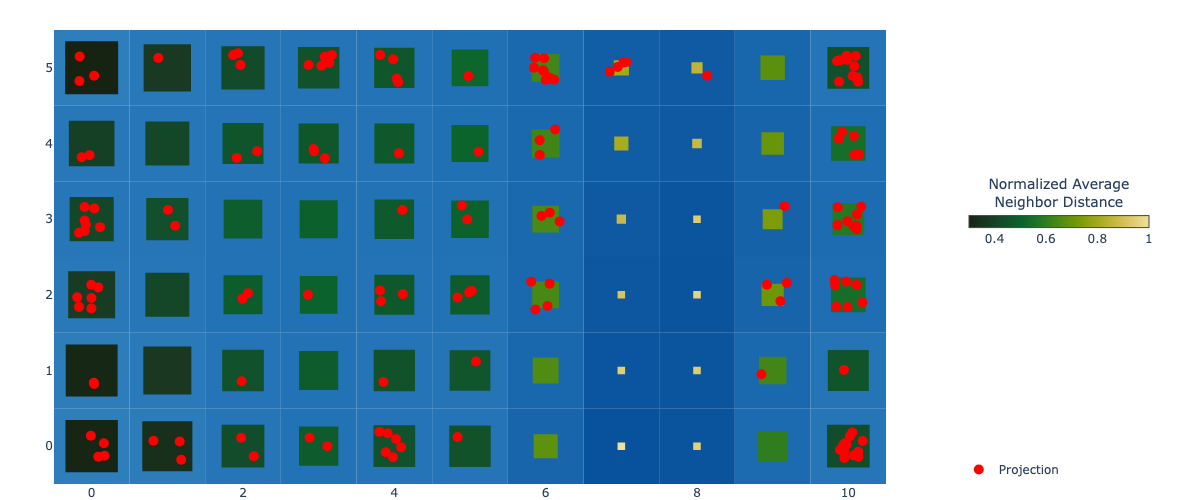
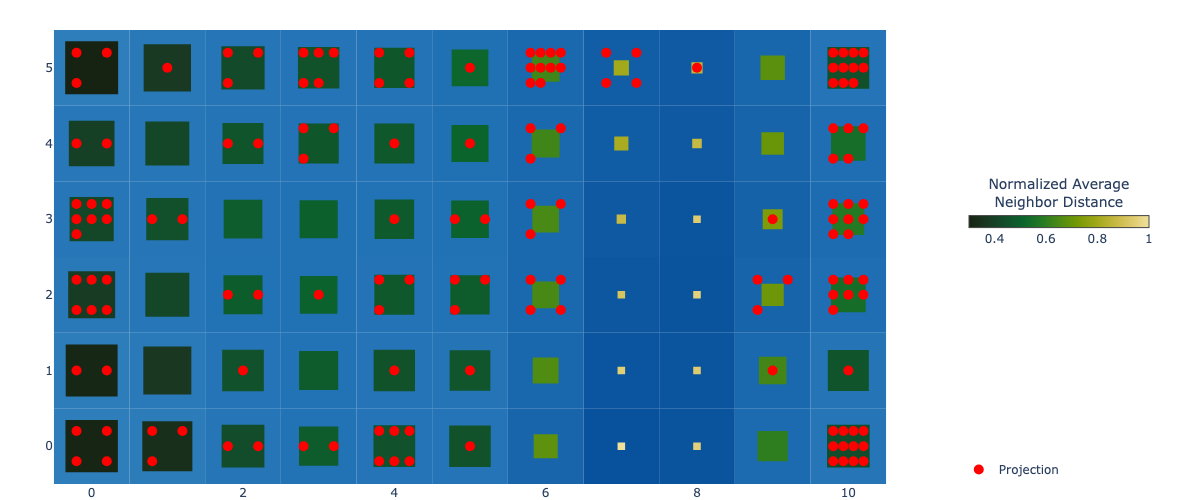
Update README and examples

diff --git a/README.md b/README.md
@@ -148,7 +148,7 @@ basin.pond(base_style="iceflock") \
     .pad_layer() \
     .attraction_layer(
         X_scaled,
-        jitter_amount=.3,
+        jitter_amount=.25,
         marker=custom_marker
     ) \
     .visualize(width=1200);
@@ -174,7 +174,7 @@ basin.pond(base_style="iceflock") \
     ) \
     .attraction_layer(
         X_scaled_selected,
-        jitter_amount=.3,
+        jitter_amount=.25,
         marker=custom_marker
     ) \
     .visualize(width=1200);
